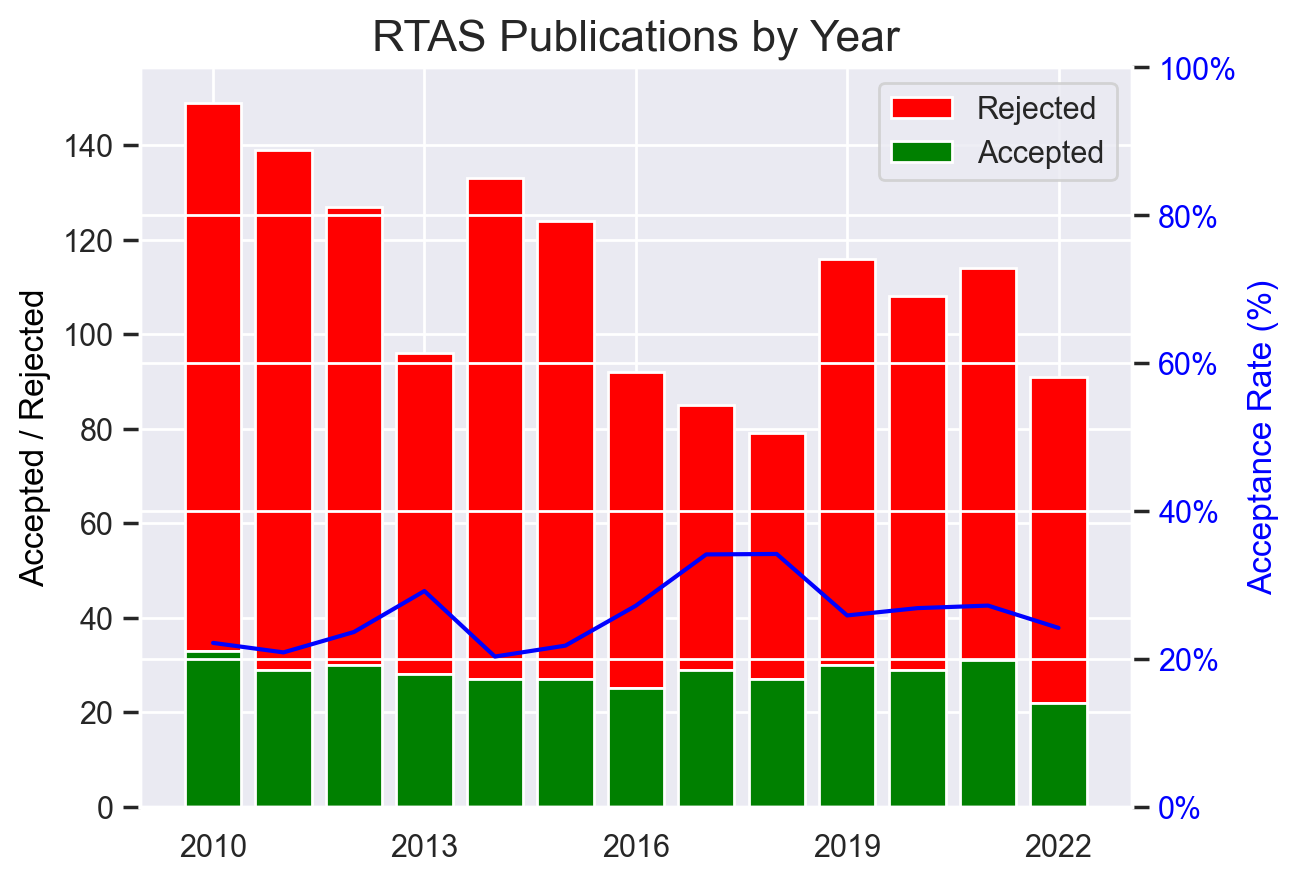
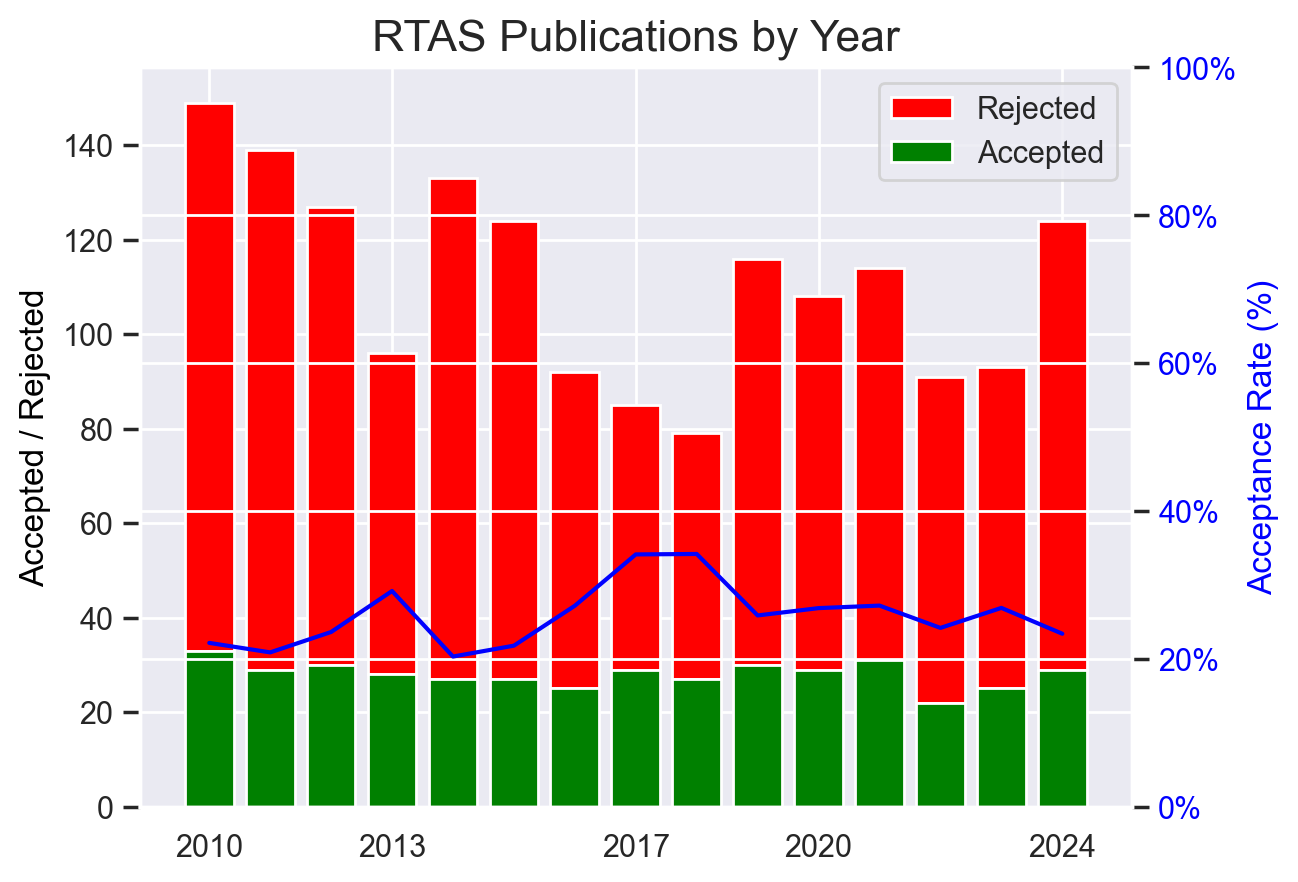
Updates.

diff --git a/README.md b/README.md
@@ -43,7 +43,7 @@
 </summary>
 <A NAME="RTAS"></A>
 <P><B><A HREF="https://dblp.org/db/conf/rtas/index.html">RTAS</A></B>
- <em>mean acceptance rate, last 5 years: 28%</em></P>
+ <em>mean acceptance rate, last 5 years: 26%</em></P>
 <IMG SRC="https://github.com/emeryberger/csconferences/blob/main/graphs/RTAS.png?raw=true" WIDTH="500">
 <A NAME="RTSS"></A>
 <P><B><A HREF="https://dblp.org/db/conf/rtss/index.html">RTSS</A></B>
